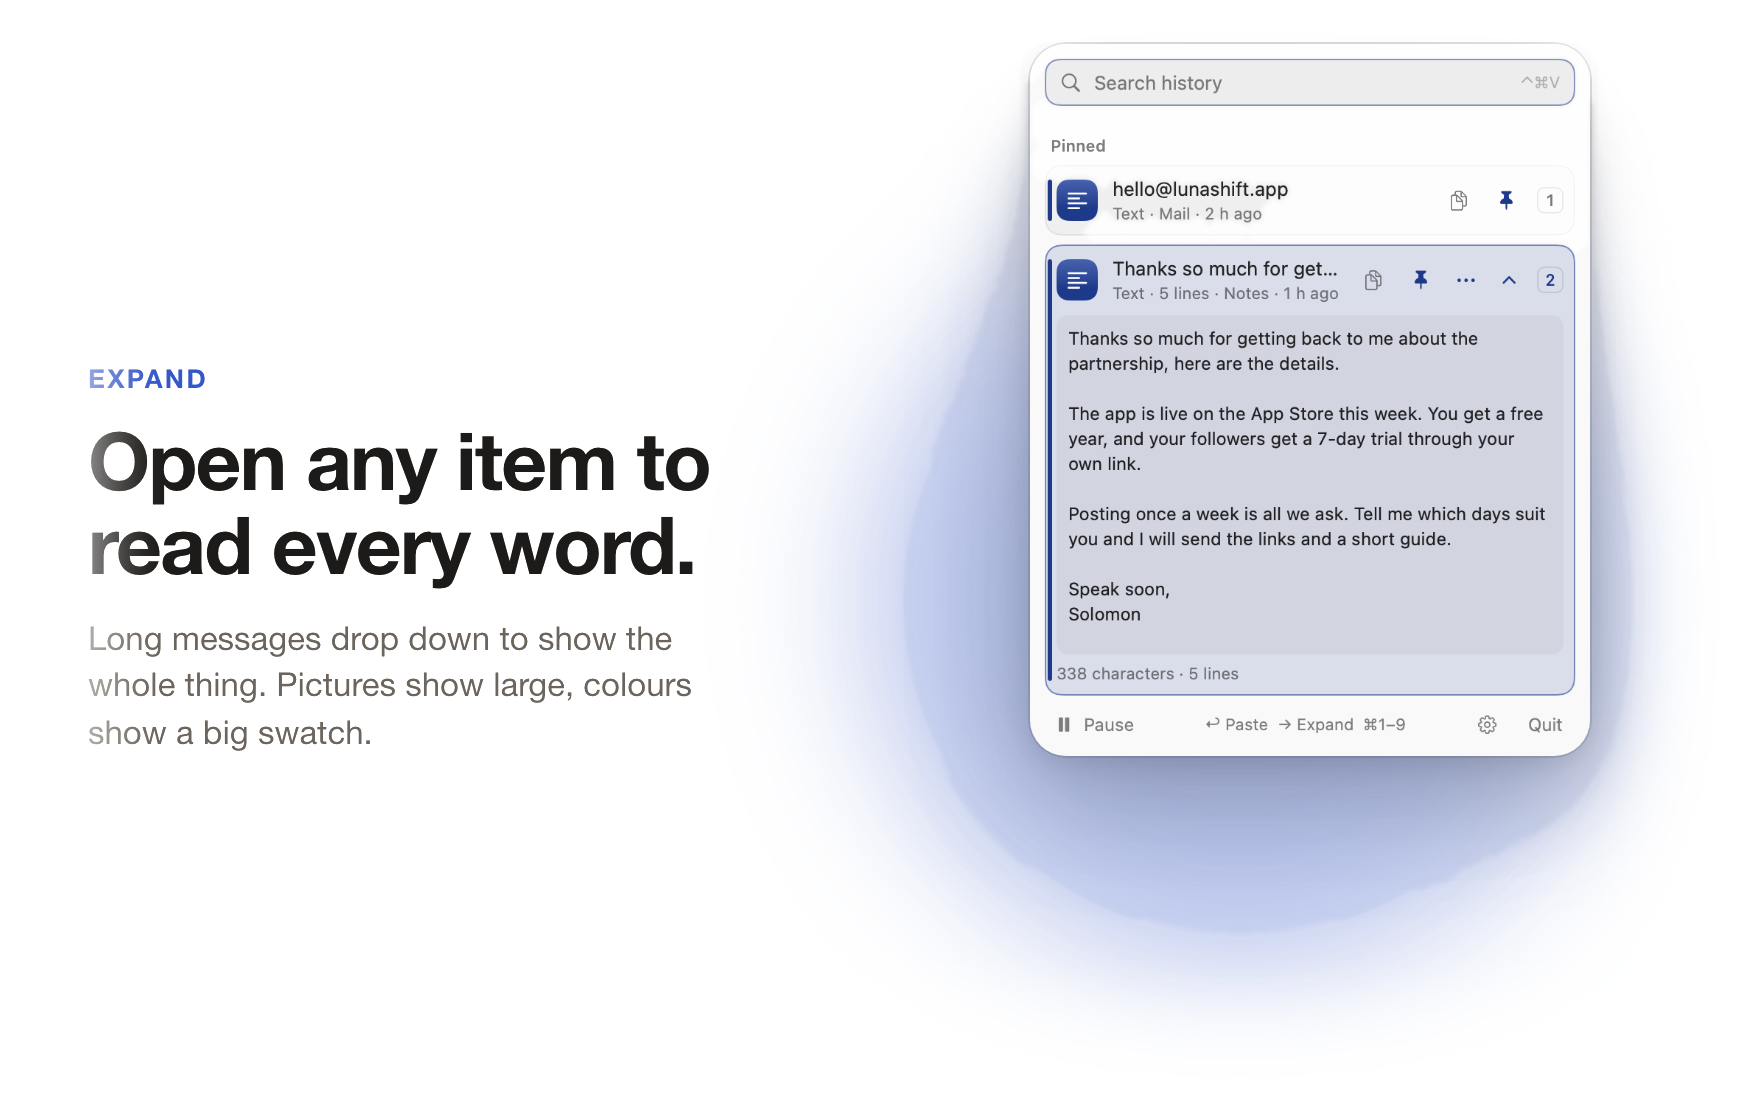
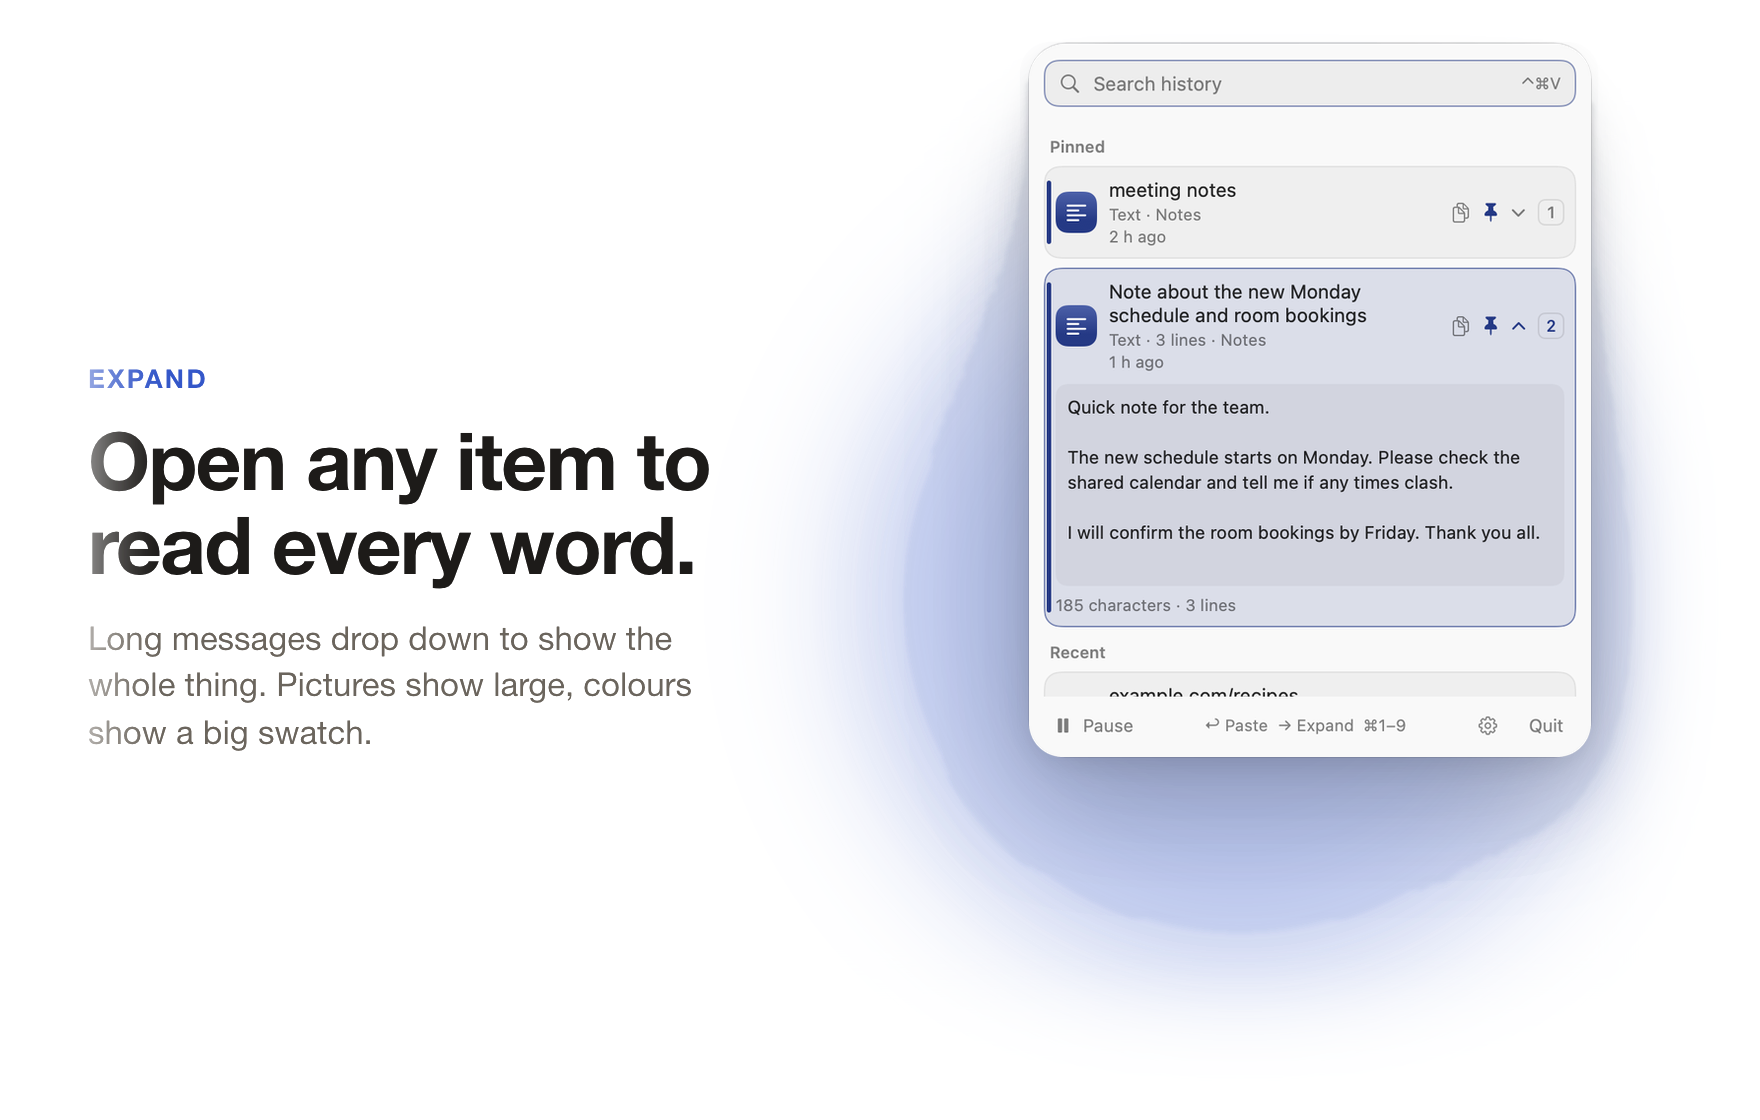
docs: showcase screenshots with neutral demo data; neutral labeller example (Memo 1.5.3)

Changed region(s): [[0.5938, 0.125, 0.9062, 0.6562], [0.5938, 0.0625, 0.6875, 0.0938], [0.875, 0.0625, 0.9062, 0.0938]]

diff --git a/Sources/Describer.swift b/Sources/Describer.swift
@@ -43,7 +43,7 @@ enum Describer {
             case .image:
                 task = "Say what this picture shows, using the classifier results and any text read from it. If it has readable text, say what that text is about. Examples: 'Screenshot of a sales chart', 'Photo of a dog on a beach', 'Receipt from Tesco'."
             case .link:
-                task = "Name the website and what the page is about, guessed from the address. Examples: 'Apple App Store page for Luna Shift', 'YouTube video about sourdough', 'GitHub repo for Memo'."
+                task = "Name the website and what the page is about, guessed from the address. Examples: 'Apple App Store page for a notes app', 'YouTube video about sourdough', 'GitHub repo for Memo'."
             default:
                 task = "Say what the text is about or what it asks for. Examples: 'Request to review the sales report', 'Recipe for banana bread', 'Swift code for a login screen'."
             }

diff --git a/CHANGELOG.md b/CHANGELOG.md
@@ -1,5 +1,8 @@
 # Changelog
 
+## 1.5.3
+- Neutral example text in the on-device labeller prompt. Screenshots use made-up demo data.
+
 ## 1.5.2
 - The Allow button (panel and Settings) asks macOS and opens the Accessibility page right away (checked on macOS 27: Memo is listed there). Clearer wording.
 
